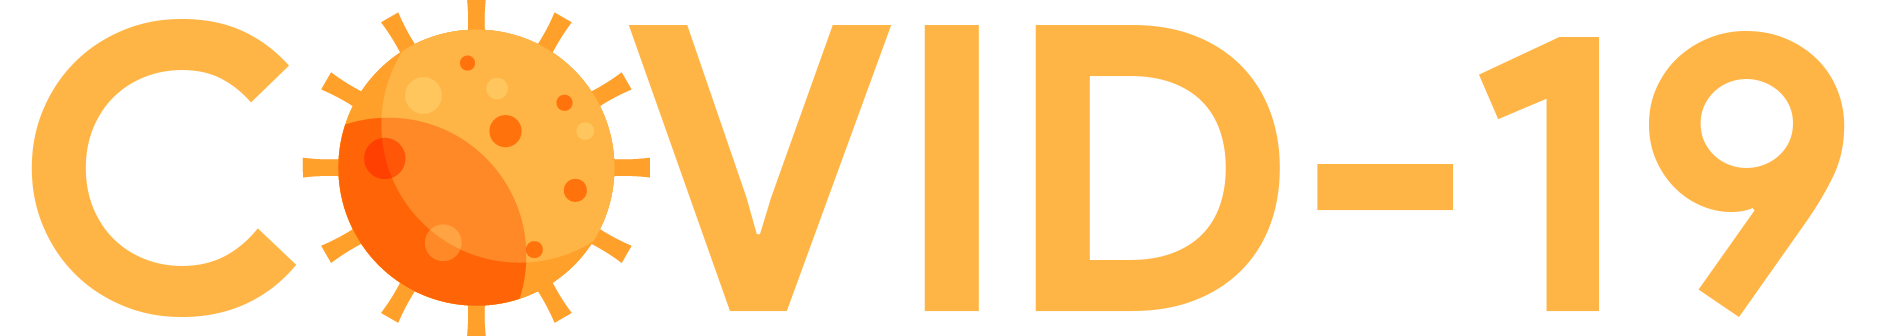
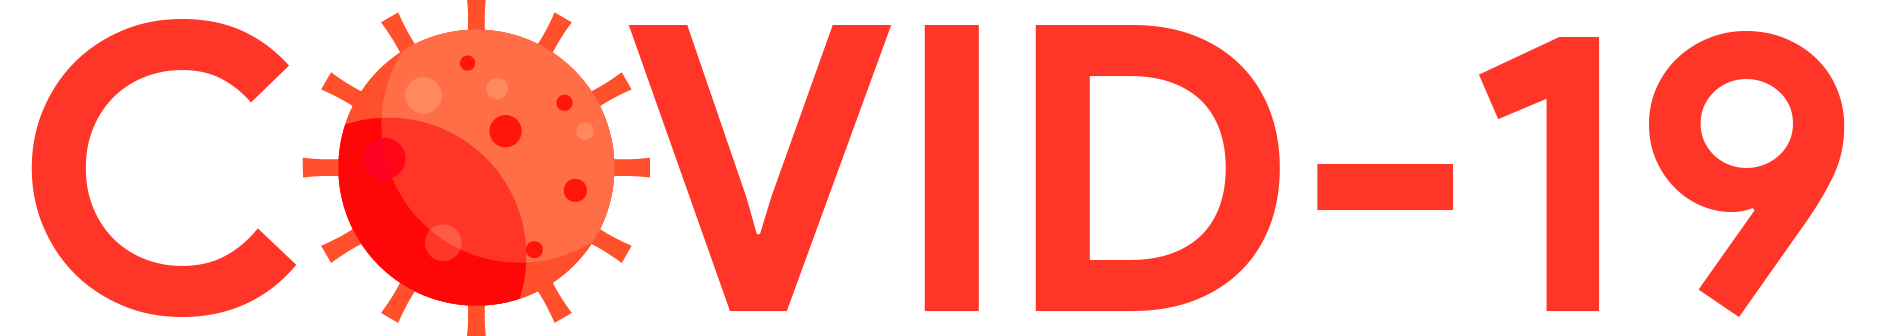
Added processing to load large dataset and to separate count for first level and second level infection.

diff --git a/MainWindow.xaml b/MainWindow.xaml
@@ -6,9 +6,9 @@
         xmlns:local="clr-namespace:SerialSimulation"
         mc:Ignorable="d"
         FontFamily="{StaticResource ProductSanRegular}" 
-        Title="COVID19 Contact Tracer" Height="661.166" Width="750" ResizeMode="NoResize" WindowStartupLocation="CenterScreen" SizeToContent="WidthAndHeight" Background="#FF132537" Icon="Resources/icon.png">
-    <Grid Margin="0,0,29.667,-2.667" Background="#FF132537">
-        <Label FontFamily="{StaticResource ProductSansBold}"  Content="CONTACT TRACING SIMULATION" HorizontalAlignment="Left" Margin="103,68,0,0" VerticalAlignment="Top" FontSize="35" FontWeight="Bold" Foreground="#FFFFB546"/>
+        Title="COVID19 Contact Tracer" Height="661.166" Width="750" ResizeMode="NoResize" WindowStartupLocation="CenterScreen" SizeToContent="WidthAndHeight" Background="#FF2A2828" Icon="Resources/icon.png">
+    <Grid Margin="0,0,29.667,-2.667" Background="#FF2A2828">
+        <Label FontFamily="{StaticResource ProductSansBold}"  Content="CONTACT TRACING SIMULATION" HorizontalAlignment="Left" Margin="103,68,0,0" VerticalAlignment="Top" FontSize="35" FontWeight="Bold" Foreground="#FFFF3527"/>
         <Label Content="First Name :" HorizontalAlignment="Left" Height="31" Margin="14,123,0,0" VerticalAlignment="Top" Width="135" FontSize="18" VerticalContentAlignment="Center" Foreground="White"/>
         <Label Content="Last Name :" HorizontalAlignment="Left" Height="31" Margin="363,123,0,0" VerticalAlignment="Top" Width="133" FontSize="18" VerticalContentAlignment="Center" Foreground="White"/>
         <TextBox x:Name="fNameTxt" HorizontalAlignment="Left" Height="32" Margin="154,122,0,0" TextWrapping="Wrap" VerticalAlignment="Top" Width="204" FontSize="18" VerticalContentAlignment="Center"/>
@@ -20,19 +20,22 @@
         <Label Content="Execution :" HorizontalAlignment="Left" Height="32" Margin="14,159,0,0" VerticalAlignment="Top" Width="135" FontSize="18" VerticalContentAlignment="Center" Foreground="White"/>
         <Button Content="START" HorizontalAlignment="Left" Height="32" Margin="501,159,0,0" VerticalAlignment="Top" Width="204" FontSize="18" Click="Button_Click"/>
         <Grid x:Name="resultsGrid" HorizontalAlignment="Left" Height="430" Margin="22,196,0,0" VerticalAlignment="Top" Width="691">
-            <Label Content="NUMBER OF PEOPLE INFECTED" HorizontalAlignment="Left" Height="44" Margin="65,194,0,0" VerticalAlignment="Top" Width="238" FontSize="15" HorizontalContentAlignment="Right" VerticalContentAlignment="Center" FontWeight="Bold" Foreground="White"/>
-            <Label x:Name="peopleCount" Content="2000" HorizontalAlignment="Left" Height="118" Margin="65,53,0,0" VerticalAlignment="Top" Width="238" FontSize="100" HorizontalContentAlignment="Right" VerticalContentAlignment="Center" FontWeight="Bold" Foreground="#FFFFB546"/>
+            <Label Content="NUMBER OF FIRST-LEVEL CONTACT" HorizontalAlignment="Left" Height="44" Margin="27,184,0,0" VerticalAlignment="Top" Width="276" FontSize="15" VerticalContentAlignment="Center" FontWeight="Bold" Foreground="White" HorizontalContentAlignment="Center"/>
+            <Label x:Name="peopleCount" Content="2000" HorizontalAlignment="Left" Height="118" Margin="27,53,0,0" VerticalAlignment="Top" Width="276" FontSize="100" HorizontalContentAlignment="Center" VerticalContentAlignment="Center" FontWeight="Bold" Foreground="#FFFF3527"/>
             <Label Content="RESULTS:" HorizontalAlignment="Left" Height="50" VerticalAlignment="Top" Width="176" FontSize="30" VerticalContentAlignment="Center" FontWeight="Bold" Margin="0,10,0,0" Foreground="White"/>
-            <Label x:Name="totalPeopleCount" Content="/10000" HorizontalAlignment="Left" Height="61" Margin="65,147,0,0" VerticalAlignment="Top" Width="238" FontSize="50" HorizontalContentAlignment="Right" VerticalContentAlignment="Center" FontWeight="Bold" Foreground="White"/>
-            <Label Content="NUMBER OF DAYS TRAVELLED" HorizontalAlignment="Left" Height="44" Margin="371,194,0,0" VerticalAlignment="Top" Width="238" FontSize="15" HorizontalContentAlignment="Right" VerticalContentAlignment="Center" FontWeight="Bold" Foreground="White"/>
-            <Label x:Name="daysCount" Content="2000" HorizontalAlignment="Left" Height="118" Margin="371,53,0,0" VerticalAlignment="Top" Width="238" FontSize="100" HorizontalContentAlignment="Right" VerticalContentAlignment="Center" FontWeight="Bold" Foreground="#FFFFB546"/>
-            <Label Content="/14" HorizontalAlignment="Left" Height="61" Margin="371,147,0,0" VerticalAlignment="Top" Width="238" FontSize="50" HorizontalContentAlignment="Right" VerticalContentAlignment="Center" FontWeight="Bold" Foreground="White"/>
-            <Label Content="NUMBER OF PLACES VISITED" HorizontalAlignment="Left" Height="44" Margin="65,368,0,0" VerticalAlignment="Top" Width="238" FontSize="15" HorizontalContentAlignment="Right" VerticalContentAlignment="Center" FontWeight="Bold" Foreground="White"/>
-            <Label x:Name="placesCount" Content="2000" HorizontalAlignment="Left" Height="118" Margin="65,230,0,0" VerticalAlignment="Top" Width="238" FontSize="100" HorizontalContentAlignment="Right" VerticalContentAlignment="Center" FontWeight="Bold" Foreground="#FFFFB546"/>
-            <Label x:Name="totalPlacesCount" Content="/40" HorizontalAlignment="Left" Height="61" Margin="65,324,0,0" VerticalAlignment="Top" Width="238" FontSize="50" HorizontalContentAlignment="Right" VerticalContentAlignment="Center" FontWeight="Bold" Foreground="White"/>
-            <Label Content="NUMBER OF AFFECTED &#xD;&#xA;COMMUNITIES" HorizontalAlignment="Left" Height="44" Margin="371,376,0,0" VerticalAlignment="Top" Width="238" FontSize="15" HorizontalContentAlignment="Right" VerticalContentAlignment="Center" FontWeight="Bold" Foreground="White"/>
-            <Label x:Name="communitiesCount" Content="2000" HorizontalAlignment="Left" Height="118" Margin="371,230,0,0" VerticalAlignment="Top" Width="238" FontSize="100" HorizontalContentAlignment="Right" VerticalContentAlignment="Center" FontWeight="Bold" Foreground="#FFFFB546"/>
-            <Label x:Name="totalCommunitiesCount" Content="/167" HorizontalAlignment="Left" Height="61" Margin="371,324,0,0" VerticalAlignment="Top" Width="238" FontSize="50" HorizontalContentAlignment="Right" VerticalContentAlignment="Center" FontWeight="Bold" Foreground="White"/>
+            <Label x:Name="totalPeopleCount" Content="/131000" HorizontalAlignment="Left" Height="61" Margin="27,145,0,0" VerticalAlignment="Top" Width="276" FontSize="40" HorizontalContentAlignment="Center" VerticalContentAlignment="Center" FontWeight="Bold" Foreground="White"/>
+            <Label Content="     NUMBER OF &#xD;&#xA;DAYS TRAVELLED" HorizontalAlignment="Left" Height="44" Margin="546,367,0,0" VerticalAlignment="Top" Width="135" FontSize="15" VerticalContentAlignment="Center" FontWeight="Bold" Foreground="White" HorizontalContentAlignment="Center"/>
+            <Label x:Name="daysCount" Content="14" HorizontalAlignment="Left" Height="118" Margin="546,231,0,0" VerticalAlignment="Top" Width="135" FontSize="100" HorizontalContentAlignment="Center" VerticalContentAlignment="Center" FontWeight="Bold" Foreground="#FFFF3527"/>
+            <Label Content="/14" HorizontalAlignment="Left" Height="61" Margin="546,321,0,0" VerticalAlignment="Top" Width="135" FontSize="40" HorizontalContentAlignment="Center" VerticalContentAlignment="Center" FontWeight="Bold" Foreground="White"/>
+            <Label Content="    NUMBER OF &#xD;&#xA;PLACES VISITED" HorizontalAlignment="Left" Height="44" Margin="27,367,0,0" VerticalAlignment="Top" Width="137" FontSize="15" VerticalContentAlignment="Center" FontWeight="Bold" Foreground="White" HorizontalContentAlignment="Center"/>
+            <Label x:Name="placesCount" Content="40" HorizontalAlignment="Left" Height="118" Margin="27,231,0,0" VerticalAlignment="Top" Width="137" FontSize="100" HorizontalContentAlignment="Center" VerticalContentAlignment="Center" FontWeight="Bold" Foreground="#FFFF3527"/>
+            <Label x:Name="totalPlacesCount" Content="/150" HorizontalAlignment="Left" Height="61" Margin="27,321,0,0" VerticalAlignment="Top" Width="137" FontSize="40" HorizontalContentAlignment="Center" VerticalContentAlignment="Center" FontWeight="Bold" Foreground="White"/>
+            <Label Content="NUMBER OF AFFECTED &#xD;&#xA;       COMMUNITIES" HorizontalAlignment="Left" Height="44" Margin="272,367,0,0" VerticalAlignment="Top" Width="180" FontSize="15" VerticalContentAlignment="Center" FontWeight="Bold" Foreground="White"/>
+            <Label x:Name="communitiesCount" Content="200" HorizontalAlignment="Left" Height="118" Margin="272,231,0,0" VerticalAlignment="Top" Width="180" FontSize="100" HorizontalContentAlignment="Center" VerticalContentAlignment="Center" FontWeight="Bold" Foreground="#FFFF3527"/>
+            <Label x:Name="totalCommunitiesCount" Content="/290" HorizontalAlignment="Left" Height="61" Margin="272,321,0,0" VerticalAlignment="Top" Width="180" FontSize="40" HorizontalContentAlignment="Center" VerticalContentAlignment="Center" FontWeight="Bold" Foreground="White"/>
+            <Label Content="NUMBER OF SECOND-LEVEL CONTACT" HorizontalAlignment="Left" Height="44" Margin="382,184,0,0" VerticalAlignment="Top" Width="295" FontSize="15" VerticalContentAlignment="Center" FontWeight="Bold" Foreground="White" HorizontalContentAlignment="Center"/>
+            <Label x:Name="peopleCountSecLevel" Content="2000" HorizontalAlignment="Left" Height="118" Margin="382,53,0,0" VerticalAlignment="Top" Width="295" FontSize="100" HorizontalContentAlignment="Center" VerticalContentAlignment="Center" FontWeight="Bold" Foreground="#FFFF3527"/>
+            <Label x:Name="totalPeopleCount_Copy" Content="/131000" HorizontalAlignment="Left" Height="61" Margin="382,145,0,0" VerticalAlignment="Top" Width="295" FontSize="40" HorizontalContentAlignment="Center" VerticalContentAlignment="Center" FontWeight="Bold" Foreground="White"/>
         </Grid>
         <Image HorizontalAlignment="Left" Height="66" Margin="206,10,0,0" VerticalAlignment="Top" Width="348" Source="Resources/covid19header.png"/>
 

diff --git a/Controllers/DataLoading.cs b/Controllers/DataLoading.cs
@@ -41,33 +41,40 @@ namespace SerialSimulation.Controllers
 
         private static IList<TracerData> ExtractEmployeeExcel(OleDbConnection oledbConn)
         {
-            OleDbCommand cmd = new OleDbCommand(); ;
-            OleDbDataAdapter oleda = new OleDbDataAdapter();
-            DataSet dsPeepsInfo = new DataSet();
-
-            cmd.Connection = oledbConn;
-            cmd.CommandType = CommandType.Text;
-            cmd.CommandText = "SELECT * FROM [Person$]"; 
-            oleda = new OleDbDataAdapter(cmd);
-            oleda.Fill(dsPeepsInfo, "Person");
-
-            var dsPeepsInfoLst = dsPeepsInfo.Tables[0].AsEnumerable().Select(s => new TracerData
+            List<TracerData> tdData = new List<TracerData>();
+            for (int i = 1; i <= 12; i++)
             {
-                Name = new Person()
-                {
-                    firstName = Convert.ToString(s["First Name"] != DBNull.Value ? s["First Name"] : ""),
-                    lastName = Convert.ToString(s["Last Name"] != DBNull.Value ? s["Last Name"] : ""),
-                    address = Convert.ToString(s["Address"] != DBNull.Value ? s["Address"] : "")
-                },
-                History = new Activities()
-                {
-                    dateData = Convert.ToString(s["Date"]).Remove(10),
-                    timeData = DateTime.Parse(Convert.ToString(s["Hour"]), CultureInfo.CurrentCulture).ToString("HH:mm:ss tt"),
-                    Location = Convert.ToString(s["Place"] != DBNull.Value ? s["Place"] : "")
-                }
-            }).ToList<TracerData>();
+                string sheetName = "Set" + i.ToString();
+                string query = sheetName + "$";
+                OleDbCommand cmd = new OleDbCommand(); ;
+                OleDbDataAdapter oleda = new OleDbDataAdapter();
+                DataSet dsPeepsInfo = new DataSet();
 
-            return dsPeepsInfoLst;
+                cmd.Connection = oledbConn;
+                cmd.CommandType = CommandType.Text;
+                cmd.CommandText = "SELECT * FROM ["+ query + "]";
+                oleda = new OleDbDataAdapter(cmd);
+                oleda.Fill(dsPeepsInfo, sheetName);
+
+                var dsPeepsInfoLst = dsPeepsInfo.Tables[0].AsEnumerable().Select(s => new TracerData
+                {
+                    Name = new Person()
+                    {
+                        firstName = Convert.ToString(s["FirstName"] != DBNull.Value ? s["FirstName"] : "").Trim(),
+                        lastName = Convert.ToString(s["LastName"] != DBNull.Value ? s["LastName"] : "").Trim(),
+                        address = Convert.ToString(s["Address"] != DBNull.Value ? s["Address"] : "")
+                    },
+                    History = new Activities()
+                    {
+                        dateData = Convert.ToString(s["Date"]).Remove(10),
+                        timeData = DateTime.Parse(Convert.ToString(s["Hour"]), CultureInfo.CurrentCulture).ToString("HH:mm:ss tt"),
+                        Location = Convert.ToString(s["Place"] != DBNull.Value ? s["Place"] : "")
+                    }
+                }).ToList<TracerData>();
+                tdData.AddRange(dsPeepsInfoLst);
+            }
+            //return dsPeepsInfoLst;
+            return tdData;
         }
 
         private static IList<TracerData> ReadExcel(string path)
@@ -93,8 +100,9 @@ namespace SerialSimulation.Controllers
         {
             List<TracerData> _tracerData = new List<TracerData>();
             string exePath = Path.GetDirectoryName(Process.GetCurrentProcess().MainModule.FileName);
-            _tracerData.AddRange(ReadExcel(exePath + @"\DataFolder\SetOne.xls").ToList());
-            _tracerData.AddRange(ReadExcel(exePath + @"\DataFolder\SetTwo.xls").ToList());
+            //_tracerData.AddRange(ReadExcel(exePath + @"\DataFolder\SetOne.xls").ToList());
+            //_tracerData.AddRange(ReadExcel(exePath + @"\DataFolder\SetTwo.xls").ToList());
+            _tracerData.AddRange(ReadExcel(exePath + @"\DataFolder\dataset.xls").ToList());
             return _tracerData;
         }
     }

diff --git a/Controllers/SerialProcessing.cs b/Controllers/SerialProcessing.cs
@@ -8,6 +8,7 @@
 using SerialSimulation.Models;
 using System.Collections.Generic;
 using System.Linq;
+using System.Windows;
 
 namespace SerialSimulation.Controllers
 {
@@ -15,6 +16,7 @@ namespace SerialSimulation.Controllers
     {
         public List<TracerData> TracerData = new List<TracerData>();
         public int peopleCount = 0;
+        public int secondLevelCount = 0;
         public int placesCount = 0;
         public int daysCount = 0;
         public int comCount = 0;
@@ -35,17 +37,22 @@ namespace SerialSimulation.Controllers
                         .Select(i => new TracerData() { Name = i.Name, History = i.History }).ToList();
 
             List<Person> infectedPeeps = new List<Person>();
-            infectedPeeps = TraceInfection(conTracer, _tracerData, dataRet);
+            List<Person> firstLevel;
+            infectedPeeps = TraceInfection(out firstLevel, conTracer, _tracerData, dataRet);
             var noDupes = infectedPeeps.Distinct(new PersonNameComparer()).ToArray();
-            peopleCount = noDupes.Count();
+            var noDupesFirstLevel = firstLevel.Distinct(new PersonNameComparer()).ToArray();
+
+            secondLevelCount = noDupes.Count() - noDupesFirstLevel.Count();
+            peopleCount = noDupesFirstLevel.Count();
             placesCount = conTracer.GetPlacesVisitedCount(dataRet);
             daysCount = conTracer.GetDaysTravelledCount(dataRet);
             comCount = conTracer.GetAffectedCommunitiesCount(infectedPeeps);
         }
 
-        private List<Person> TraceInfection(ContactTracing conTracer, List<TracerData> _tracerData, List<TracerData> dataRet)
+        private List<Person> TraceInfection(out List<Person> firstLevel, ContactTracing conTracer, List<TracerData> _tracerData, List<TracerData> dataRet)
         {
             List<Person> infectedPeeps = new List<Person>();
+            firstLevel = new List<Person>();
             foreach (TracerData s in dataRet)
             {
                 var infPerson = _tracerData.Where(x => x.History.dateData == s.History.dateData && x.History.timeData == s.History.timeData && x.History.Location == s.History.Location)
@@ -53,6 +60,7 @@ namespace SerialSimulation.Controllers
 
                 var secLvlInfection = conTracer. GetSecondLevel(infPerson, _tracerData);
                 infectedPeeps.AddRange(secLvlInfection);
+                firstLevel.AddRange(infPerson);
             }
             return infectedPeeps;
         }

diff --git a/Controllers/ParallelProcessing.cs b/Controllers/ParallelProcessing.cs
@@ -19,6 +19,7 @@ namespace SerialSimulation.Controllers
         public int placesCount = 0;
         public int daysCount = 0;
         public int comCount = 0;
+        public int secondLevelCount = 0;
 
         public void StartDataProcessing(string fname, string lname, List<TracerData> _tracerData)
         {
@@ -36,17 +37,23 @@ namespace SerialSimulation.Controllers
                         .Select(i => new TracerData() { Name = i.Name, History = i.History }).ToList();
 
             List<Person> infectedPeeps = new List<Person>();
-            infectedPeeps = TraceInfection(conTracer, _tracerData, dataRet);
+            List<Person> firstLevel;
+            infectedPeeps = TraceInfection(out firstLevel, conTracer, _tracerData, dataRet);
             var noDupes = infectedPeeps.Distinct(new PersonNameComparer()).ToArray();
-            peopleCount = noDupes.Count();
+            var noDupesFirstLevel = firstLevel.Distinct(new PersonNameComparer()).ToArray();
+
+            secondLevelCount = noDupes.Count() - noDupesFirstLevel.Count();
+            peopleCount = noDupesFirstLevel.Count();
             placesCount = conTracer.GetPlacesVisitedCount(dataRet);
             daysCount = conTracer.GetDaysTravelledCount(dataRet);
             comCount = conTracer.GetAffectedCommunitiesCount(infectedPeeps);
         }
 
-        private List<Person> TraceInfection(ContactTracing conTracer, List<TracerData> _tracerData, List<TracerData> dataRet)
+        private List<Person> TraceInfection(out List<Person> firstLevel, ContactTracing conTracer, List<TracerData> _tracerData, List<TracerData> dataRet)
         {
             List<Person> infectedPeeps = new List<Person>();
+            List<Person> firstLev = new List<Person>();
+            firstLevel = new List<Person>();
 
             Parallel.ForEach(dataRet, (s) => {
                 var infPerson = _tracerData.Where(x => x.History.dateData == s.History.dateData && x.History.timeData == s.History.timeData && x.History.Location == s.History.Location)
@@ -54,7 +61,9 @@ namespace SerialSimulation.Controllers
 
                 var secLvlInfection = conTracer.GetSecondLevel(infPerson, _tracerData);
                 infectedPeeps.AddRange(secLvlInfection);
+                firstLev.AddRange(infPerson);
             });
+            firstLevel.AddRange(firstLev);
             return infectedPeeps;
         }
     }

diff --git a/MainWindow.xaml.cs b/MainWindow.xaml.cs
@@ -48,6 +48,7 @@ namespace SerialSimulation
 
         private void DisplayData(SerialProcessing sp)
         {
+            peopleCountSecLevel.Content = sp.secondLevelCount.ToString();
             peopleCount.Content = sp.peopleCount.ToString();
             placesCount.Content = sp.placesCount.ToString();
             daysCount.Content = sp.daysCount.ToString();
@@ -58,6 +59,7 @@ namespace SerialSimulation
 
         private void DisplayData(ParallelProcessing pp)
         {
+            peopleCountSecLevel.Content = pp.secondLevelCount.ToString();
             peopleCount.Content = pp.peopleCount.ToString();
             placesCount.Content = pp.placesCount.ToString();
             daysCount.Content = pp.daysCount.ToString();
